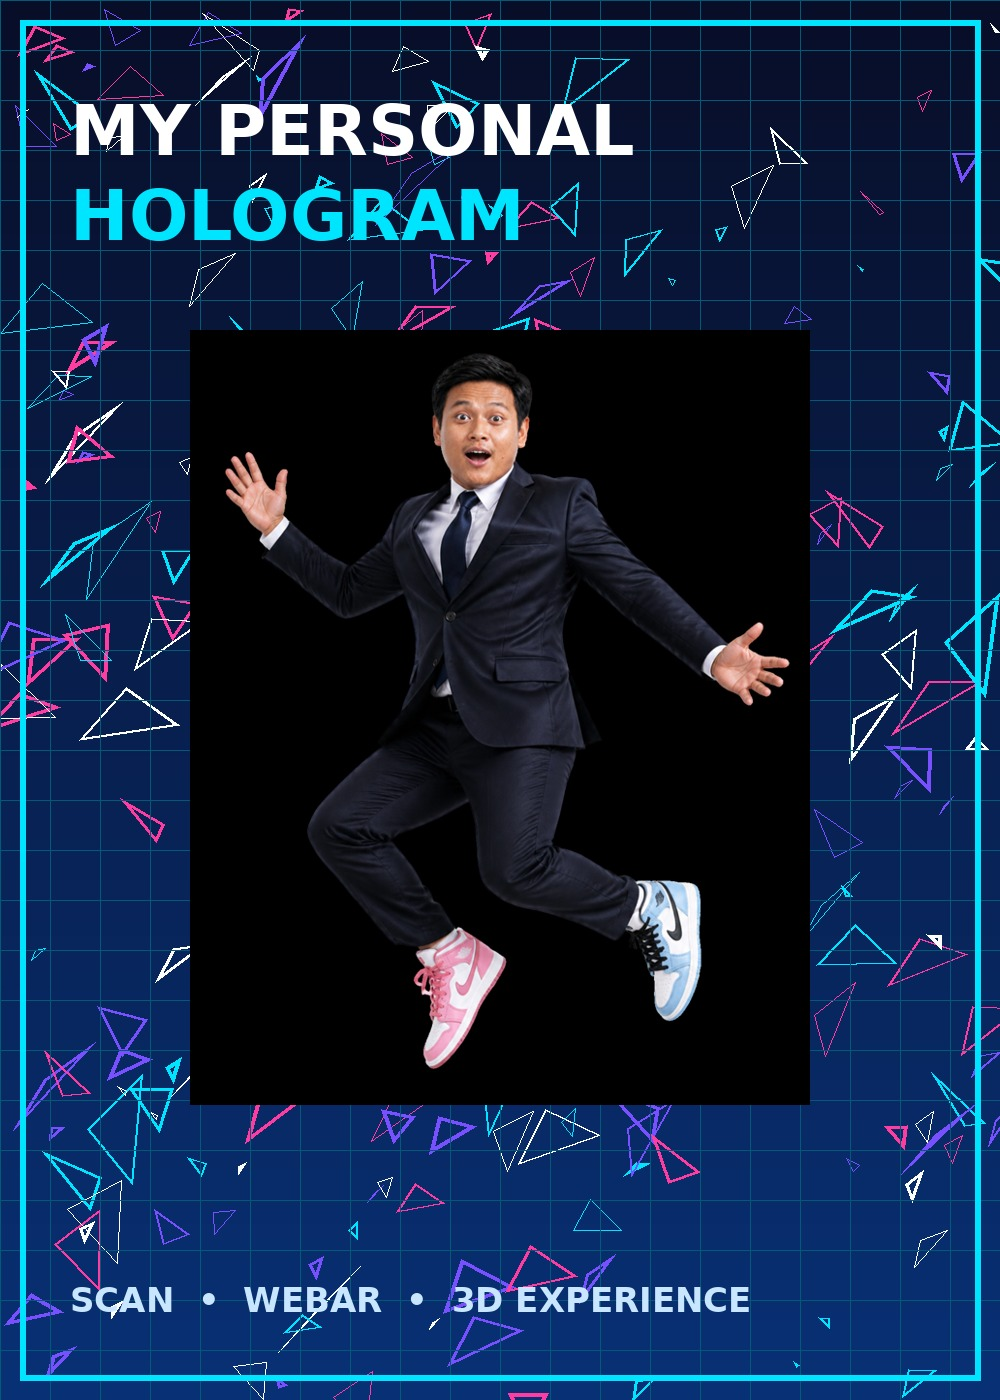
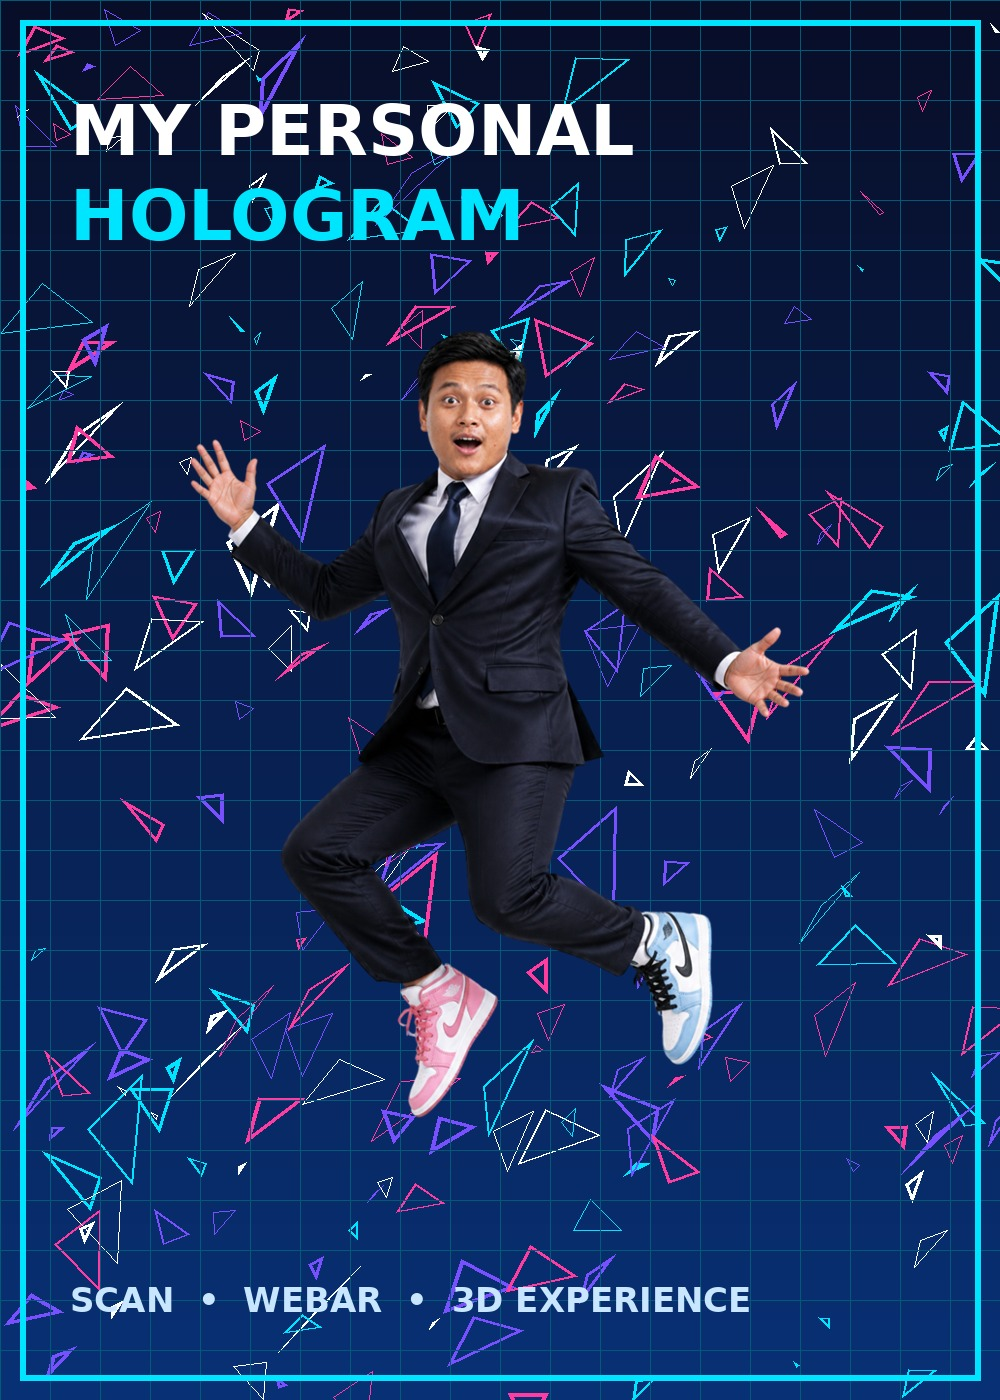
Add files via upload

Changed region(s): [[0.186, 0.215, 0.837, 0.7986]]

diff --git a/index.html b/index.html
@@ -1,7 +1,7 @@
 <!DOCTYPE html><html lang="id"><head><meta charset="utf-8">
 <meta name="viewport" content="width=device-width,initial-scale=1,viewport-fit=cover">
 <title>My Personal Hologram</title>
-<script type="importmap">{"imports":{"three":"https://cdn.jsdelivr.net/npm/three@0.150.0/build/three.module.js","mindar-image-three":"https://cdn.jsdelivr.net/npm/mind-ar@1.2.5/dist/mindar-image-three.prod.js"}}</script>
+<script type="importmap">{"imports":{"three":"https://cdn.jsdelivr.net/npm/three@0.160.0/build/three.module.js","three/addons/":"https://cdn.jsdelivr.net/npm/three@0.160.0/examples/jsm/","mindar-image-three":"https://cdn.jsdelivr.net/npm/mind-ar@1.2.5/dist/mindar-image-three.prod.js"}}</script>
 <script src="https://cdn.jsdelivr.net/npm/mind-ar@1.2.5/dist/mindar-image.prod.js"></script>
 <style>
 html,body{margin:0;height:100%;background:#050a1a;color:#e8f9ff;font-family:system-ui,sans-serif;overflow:hidden}
@@ -17,15 +17,21 @@ button.on{background:#00e5ff;color:#001018}
 #msg{position:fixed;top:calc(14px + env(safe-area-inset-top));left:14px;font-size:12px;opacity:.85;z-index:6}
 </style></head><body>
 <div id="start"><h1>MY PERSONAL<br>HOLOGRAM</h1><p>Arahkan kamera ke poster. Karakter akan muncul di atasnya.</p>
-<button id="go">START AR</button><p id="st"></p>
+<button id="go" disabled>MEMUAT…</button><p id="st"></p>
 <img src="poster.jpg" style="width:120px;border-radius:8px;opacity:.8"></div>
 <div id="msg"></div><div id="top"><button id="fs">FULLSCREEN</button></div>
 <div id="bar"><button data-a="auto" class="on">AUTO</button><button data-a="idle">IDLE</button><button data-a="wave">WAVING</button><button data-a="jump">JUMPING</button><button data-a="clap">CLAPPING</button></div>
 <script type="module">
-import * as THREE from 'three';
-import {MindARThree} from 'mindar-image-three';
 const $=s=>document.querySelector(s), st=$('#st');
 let mode='auto';
+let THREE,MindARThree;
+window.addEventListener('error',e=>{st.textContent='Error: '+e.message});
+window.addEventListener('unhandledrejection',e=>{st.textContent='Error: '+(e.reason&&e.reason.message||e.reason)});
+(async()=>{try{
+  if(typeof MINDAR==='undefined')throw new Error('MindAR (compiler) tidak termuat');
+  THREE=await import('three'); ({MindARThree}=await import('mindar-image-three'));
+  $('#go').disabled=false;$('#go').textContent='START AR';
+}catch(e){st.textContent='Gagal memuat library: '+e.message}})();
 document.querySelectorAll('#bar button').forEach(b=>b.onclick=()=>{mode=b.dataset.a;document.querySelectorAll('#bar button').forEach(x=>x.classList.toggle('on',x===b))});
 $('#fs').onclick=()=>{document.fullscreenElement?document.exitFullscreen():document.documentElement.requestFullscreen?.()};
 $('#go').onclick=async()=>{
@@ -43,7 +49,7 @@ $('#go').onclick=async()=>{
     scene.add(new THREE.AmbientLight(0xffffff,1));
     const anchor=mindar.addAnchor(0);
     const tex=await new THREE.TextureLoader().loadAsync('character.png');
-    tex.encoding=THREE.sRGBEncoding;
+    tex.colorSpace=THREE.SRGBColorSpace;
     const ar=tex.image.width/tex.image.height, H=0.95, Wd=H*ar;
     // pivot di kaki, berdiri tegak di atas poster
     const pivot=new THREE.Group(); pivot.position.set(0,-0.25,0.01); pivot.rotation.x=Math.PI/2;
